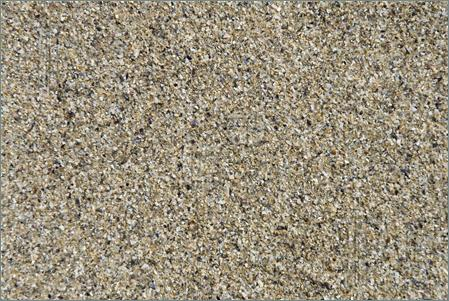
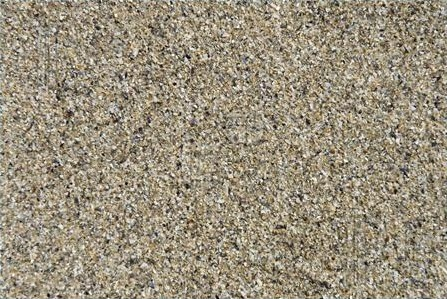
water shader

diff --git a/src/js/component/sea.js b/src/js/component/sea.js
@@ -7,7 +7,7 @@ var components = components || {};
 	var preload = function(){
 		
 		game.load.image('displacement', 'src/assets/displacement_map.jpg');
-		game.load.image('sea_background', 'src/assets/displacement_BG.jpg');
+		game.load.image('sea_background', 'src/assets/sand.jpg');
 		game.load.image('sea_ecume', 'src/assets/zeldaWaves.png');
 		
 		
@@ -24,22 +24,27 @@ var components = components || {};
 		group.filters = [ displacementFilter ];
 
 
-		displacementFilter.scale.x = 20;
-		displacementFilter.scale.y = 20;
+		displacementFilter.scale.x = 40;
+		displacementFilter.scale.y = 40;
 
-		/*
-		//overlay = new Phaser.TileSprite( 0, 0 , 128 , 128 , 'sea_ecume');
-		overlay = new Phaser.Sprite( 128 , 128 , 'sea_ecume');
+
+		bg = new Phaser.TileSprite( game , 0, 0 , 256 , 256 , 'sea_background');
+		bg.width = 5000;
+		bg.height = 5000;
+
+		// add background rockies
+		group.addChild( bg );
+
 		
+		
+		overlay = new Phaser.TileSprite( game , 0, 0 , 256 , 256 , 'sea_ecume');
+		overlay.alpha = 0.5
 		overlay.width = 5000;
 		overlay.height = 5000;
-	
-		// add background rockies
-		//group.addChild( bg );
-
+		
 		//add water volution
 		group.addChild( overlay );
-		*/
+		
 		
 		
 
